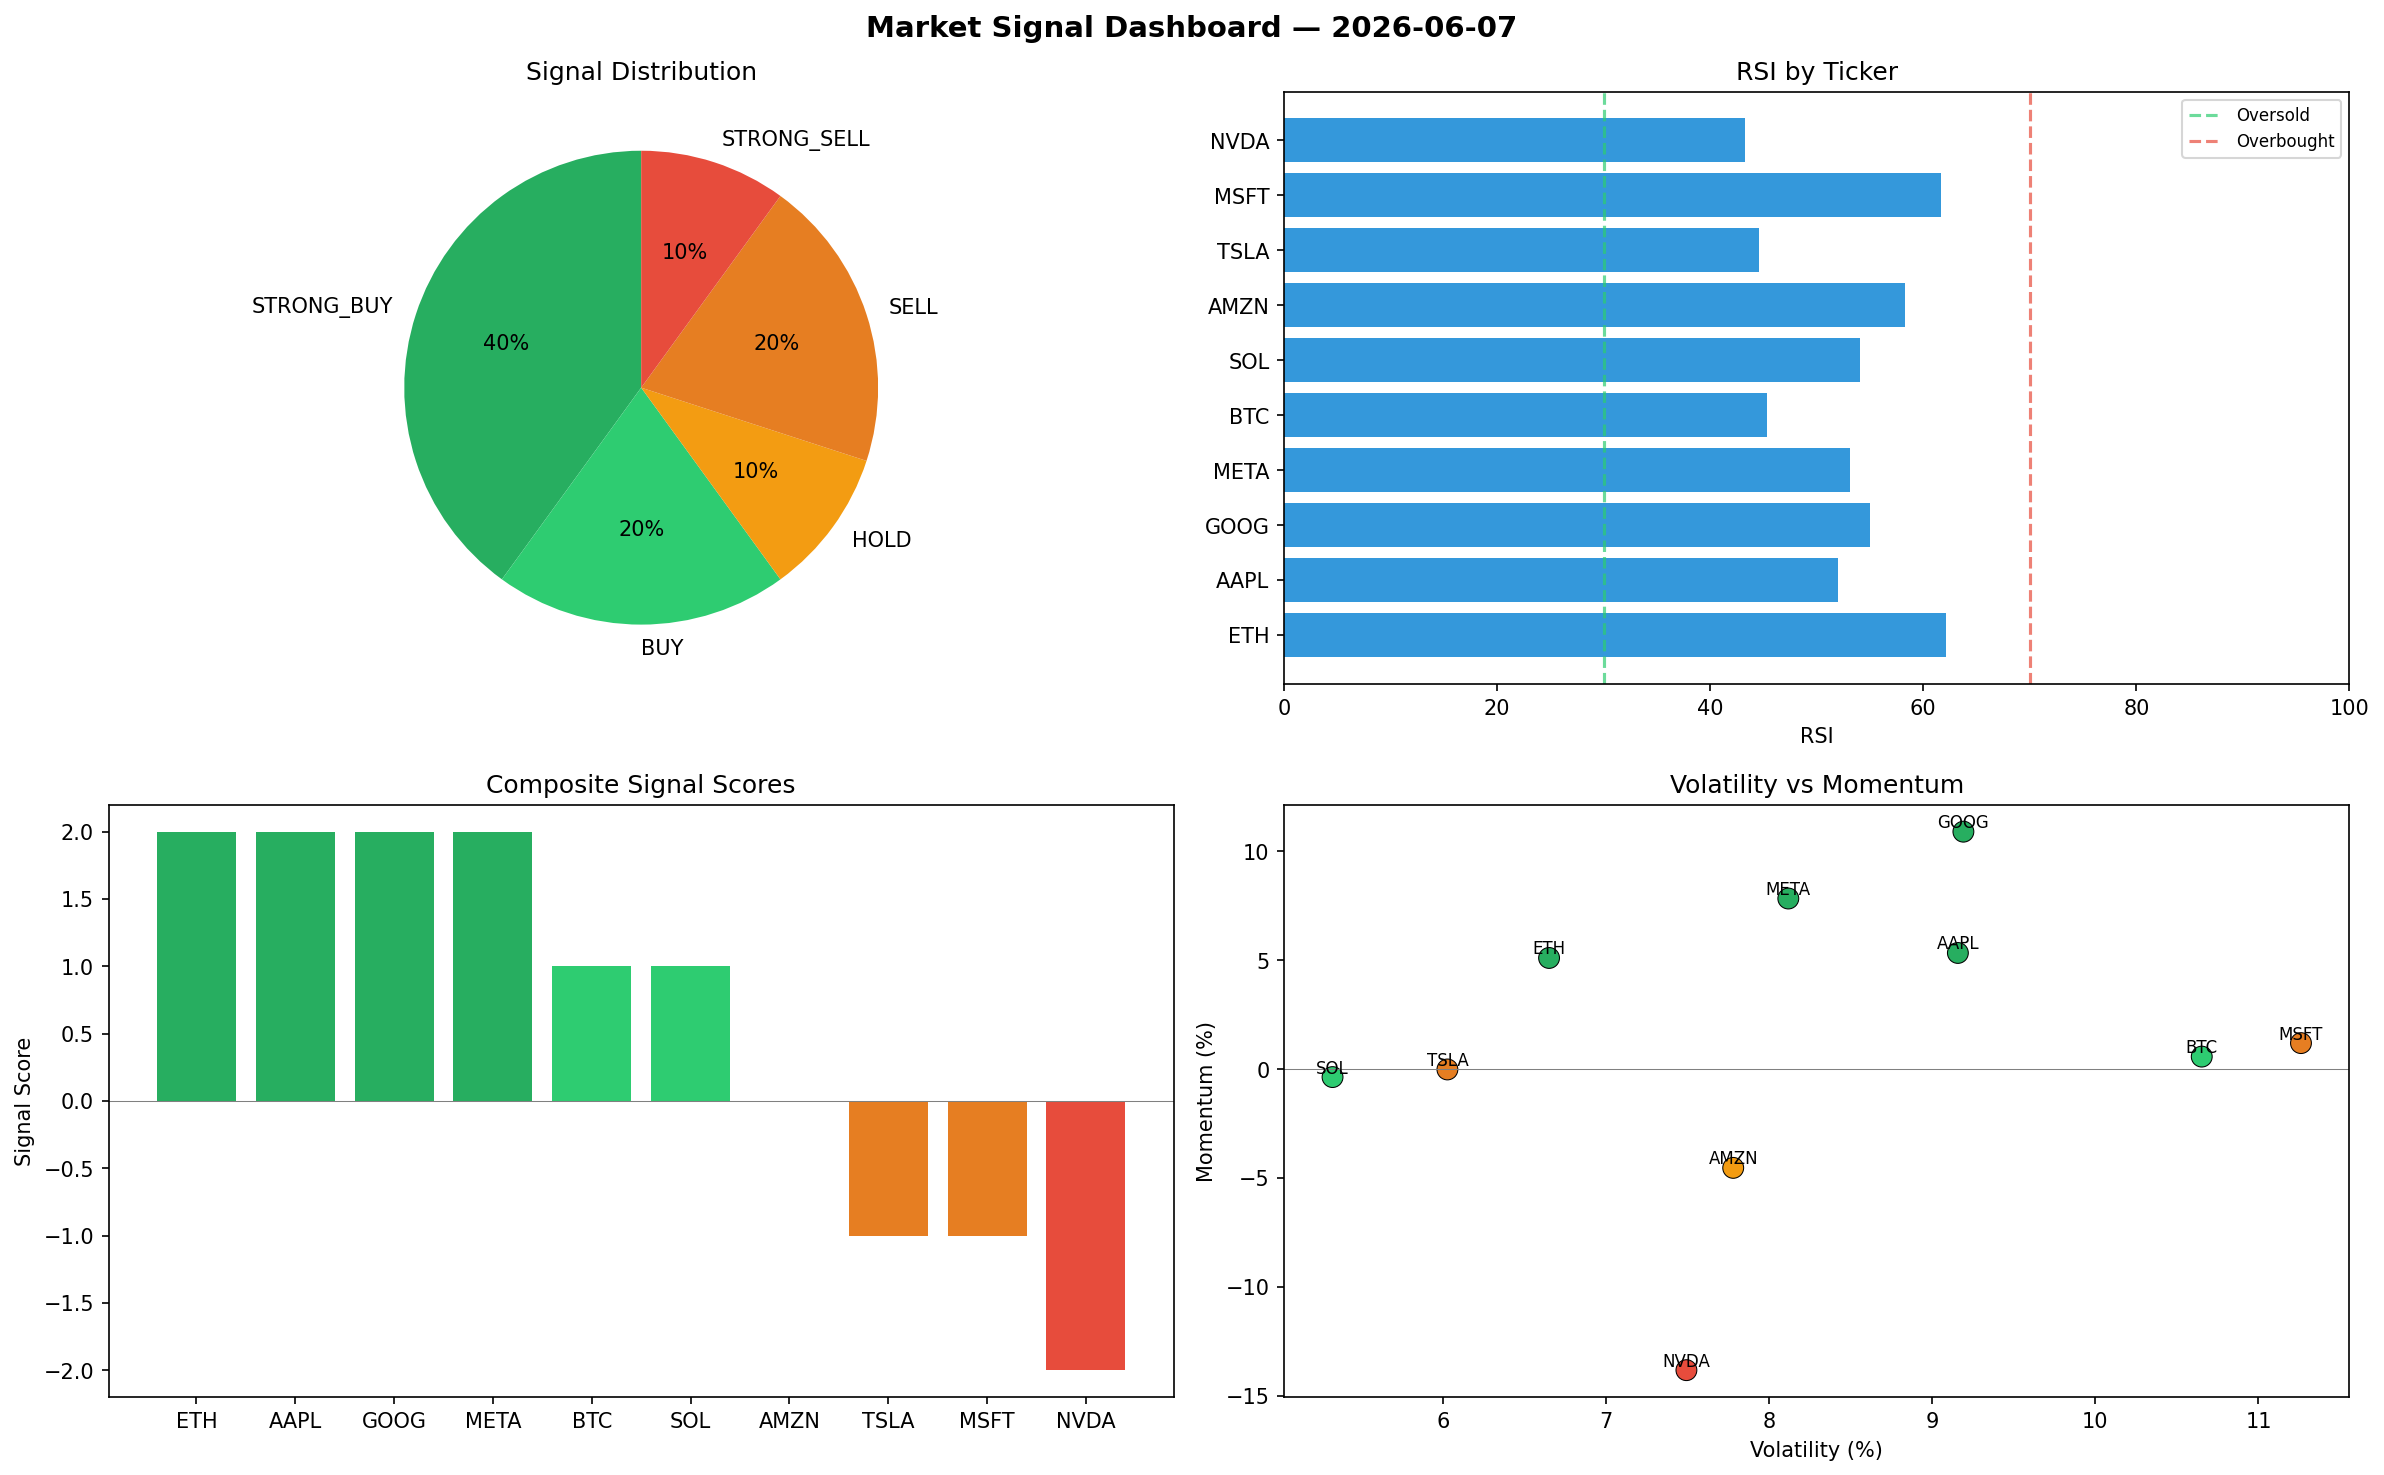
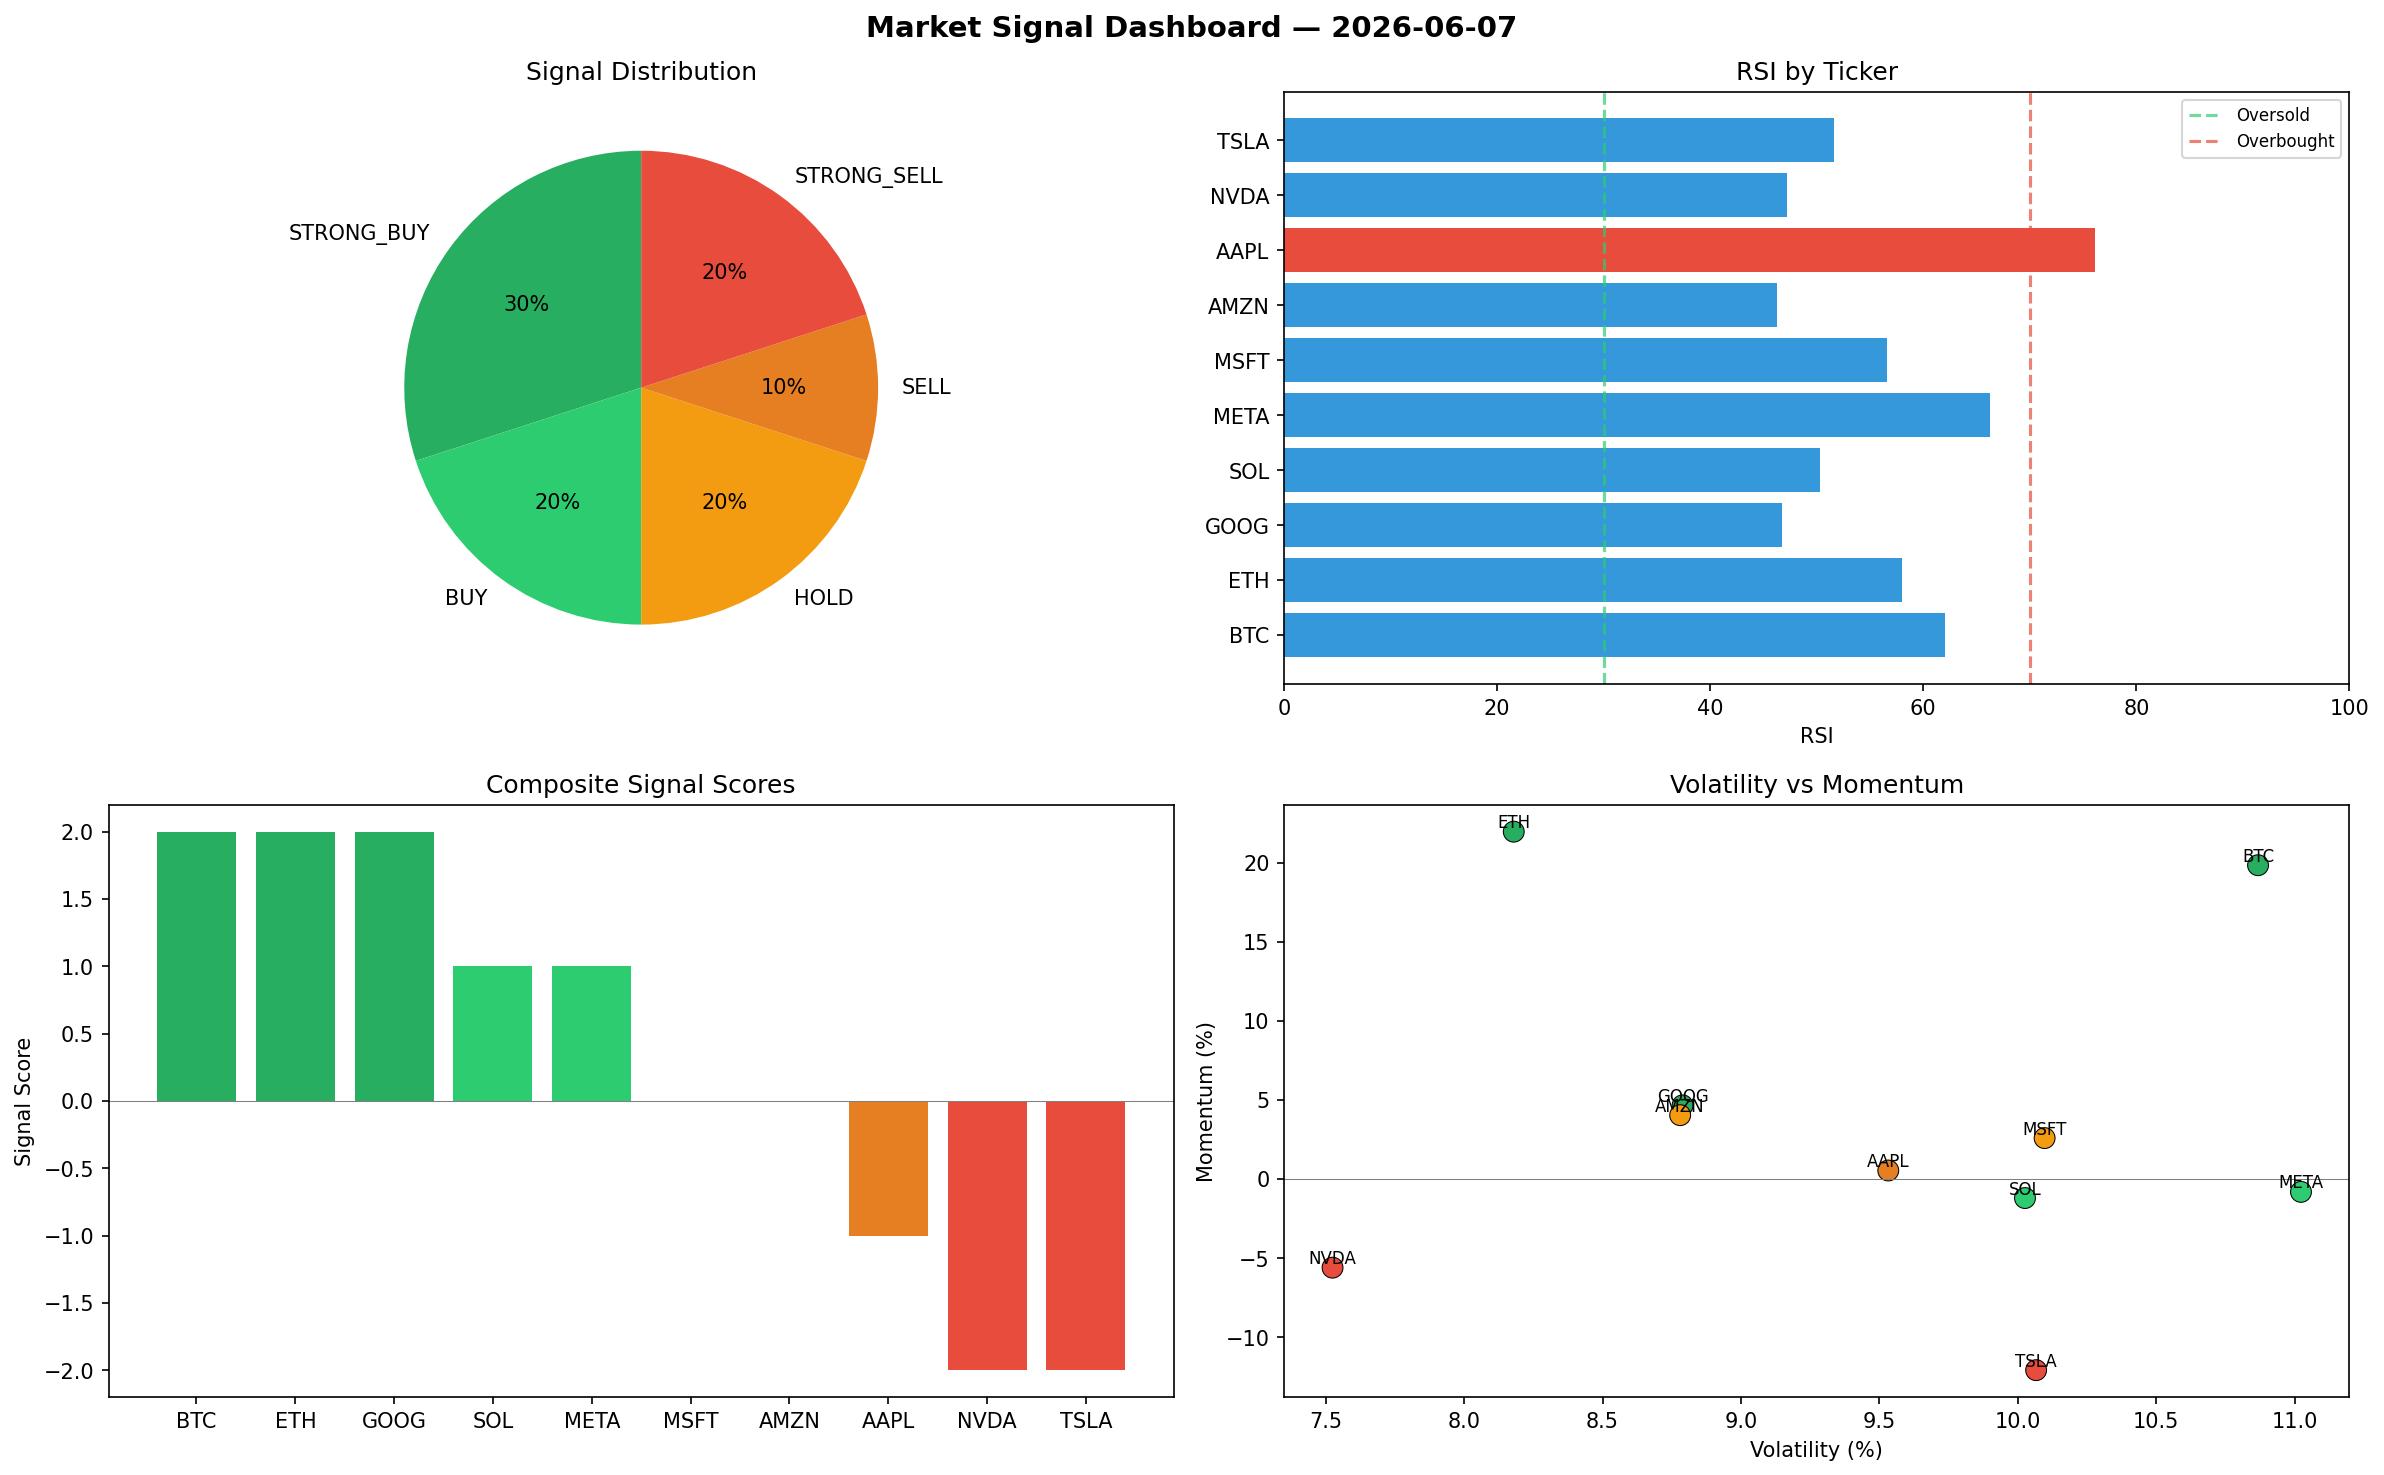
automated-bots: market signals 2026-06-07T21:41

diff --git a/logs/2026-06-07.md b/logs/2026-06-07.md
@@ -1,6 +1,6 @@
 # Market Signal Report — 2026-06-07
 
-**Run ID:** `8096a8730f` | **Buy:** 6 | **Sell:** 3 | **Hold:** 1
+**Run ID:** `4bff7e737a` | **Buy:** 5 | **Sell:** 3 | **Hold:** 2
 
 ![Dashboard](2026-06-07_dashboard.png)
 
@@ -8,28 +8,28 @@
 
 | Ticker | Price | Signal | Score | RSI | Momentum | Confidence |
 |--------|-------|--------|-------|-----|----------|------------|
-| ETH | $2272.3 | **STRONG_BUY** | 2 | 62.14 | 0.051 | 0.5 |
-| AAPL | $778.2 | **STRONG_BUY** | 2 | 51.96 | 0.0533 | 0.5 |
-| GOOG | $3675.14 | **STRONG_BUY** | 2 | 54.96 | 0.109 | 0.5 |
-| META | $2149.34 | **STRONG_BUY** | 2 | 53.1 | 0.0783 | 0.5 |
-| BTC | $390.87 | **BUY** | 1 | 45.3 | 0.0057 | 0.25 |
-| SOL | $3351.83 | **BUY** | 1 | 54.08 | -0.0037 | 0.25 |
-| AMZN | $3033.37 | **HOLD** | 0 | 58.3 | -0.0454 | 0.0 |
-| TSLA | $866.82 | **SELL** | -1 | 44.56 | -0.0002 | 0.25 |
-| MSFT | $1987.84 | **SELL** | -1 | 61.7 | 0.0119 | 0.25 |
-| NVDA | $171.22 | **STRONG_SELL** | -2 | 43.31 | -0.1383 | 0.5 |
+| BTC | $4651.98 | **STRONG_BUY** | 2 | 62.02 | 0.1983 | 0.5 |
+| ETH | $4200.28 | **STRONG_BUY** | 2 | 58.0 | 0.2195 | 0.5 |
+| GOOG | $2374.26 | **STRONG_BUY** | 2 | 46.75 | 0.0465 | 0.5 |
+| SOL | $2939.82 | **BUY** | 1 | 50.3 | -0.0121 | 0.25 |
+| META | $4363.06 | **BUY** | 1 | 66.23 | -0.0082 | 0.25 |
+| MSFT | $2748.62 | **HOLD** | 0 | 56.61 | 0.0258 | 0.0 |
+| AMZN | $3675.2 | **HOLD** | 0 | 46.27 | 0.0403 | 0.0 |
+| AAPL | $2971.87 | **SELL** | -1 | 76.16 | 0.0053 | 0.25 |
+| NVDA | $387.84 | **STRONG_SELL** | -2 | 47.24 | -0.0561 | 0.5 |
+| TSLA | $3744.2 | **STRONG_SELL** | -2 | 51.62 | -0.1209 | 0.5 |
 
 ## Delta vs Yesterday
 
 | Ticker | Today | Yesterday | Price Change | Signal Changed |
 |--------|-------|-----------|-------------|----------------|
-| ETH | STRONG_BUY | HOLD | 📉 -47.66% | ⚠ YES |
-| AAPL | STRONG_BUY | STRONG_BUY | 📉 -58.17% | — |
-| GOOG | STRONG_BUY | STRONG_SELL | 📉 -14.88% | ⚠ YES |
-| META | STRONG_BUY | HOLD | 📈 85.89% | ⚠ YES |
-| BTC | BUY | STRONG_SELL | 📉 -91.31% | ⚠ YES |
-| SOL | BUY | STRONG_SELL | 📈 511.65% | ⚠ YES |
-| AMZN | HOLD | BUY | 📈 288.36% | ⚠ YES |
-| TSLA | SELL | SELL | 📉 -68.49% | — |
-| MSFT | SELL | SELL | 📈 93.95% | — |
-| NVDA | STRONG_SELL | STRONG_SELL | 📉 -91.16% | — |
+| BTC | STRONG_BUY | STRONG_SELL | 📈 3.46% | ⚠ YES |
+| ETH | STRONG_BUY | HOLD | 📉 -3.26% | ⚠ YES |
+| GOOG | STRONG_BUY | STRONG_SELL | 📉 -45.01% | ⚠ YES |
+| SOL | BUY | STRONG_SELL | 📈 436.46% | ⚠ YES |
+| META | BUY | HOLD | 📈 277.34% | ⚠ YES |
+| MSFT | HOLD | SELL | 📈 168.17% | ⚠ YES |
+| AMZN | HOLD | BUY | 📈 370.53% | ⚠ YES |
+| AAPL | SELL | STRONG_BUY | 📈 59.74% | ⚠ YES |
+| NVDA | STRONG_SELL | STRONG_SELL | 📉 -79.97% | — |
+| TSLA | STRONG_SELL | SELL | 📈 36.09% | ⚠ YES |
